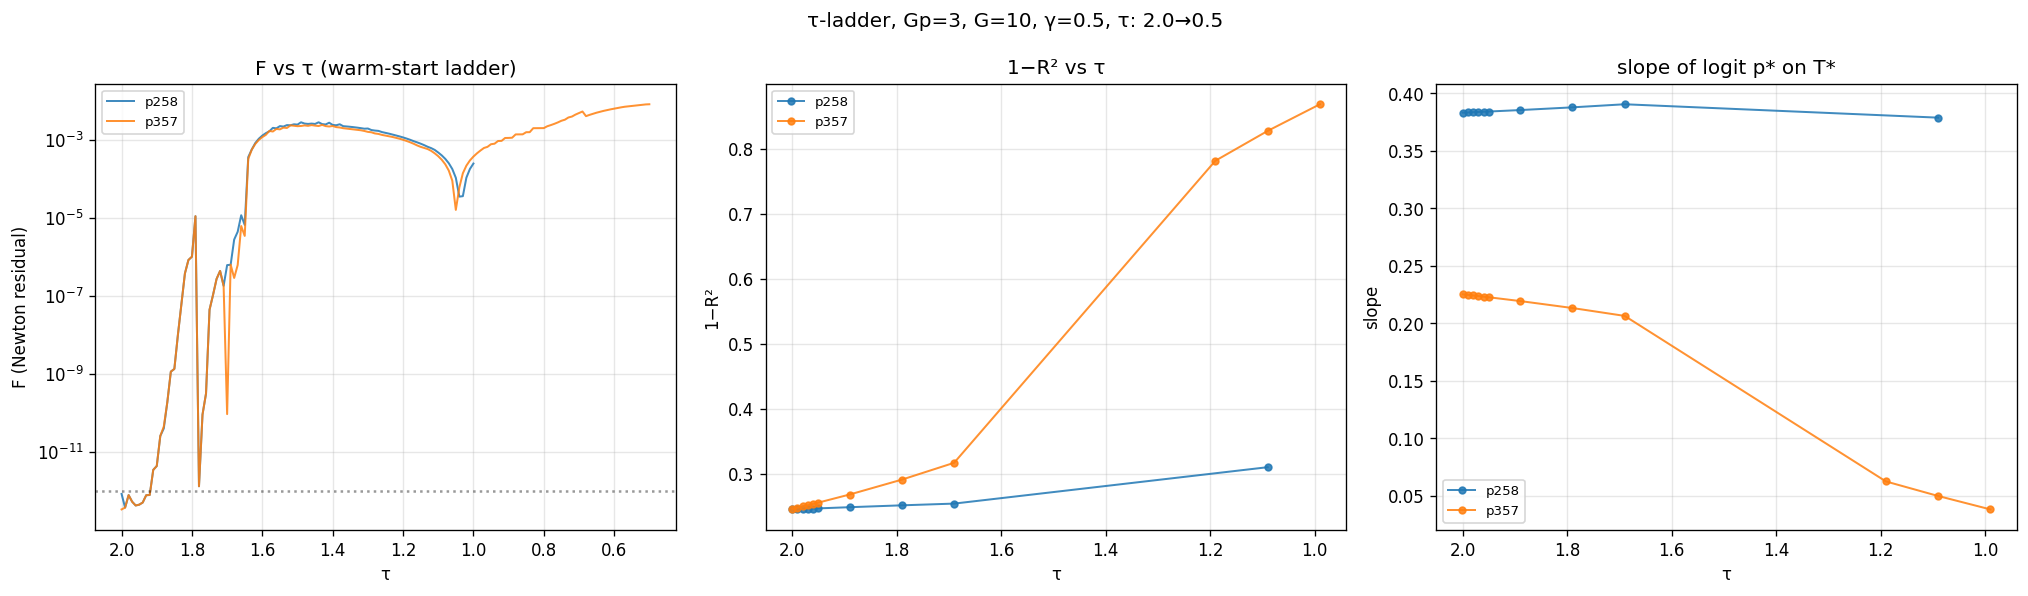
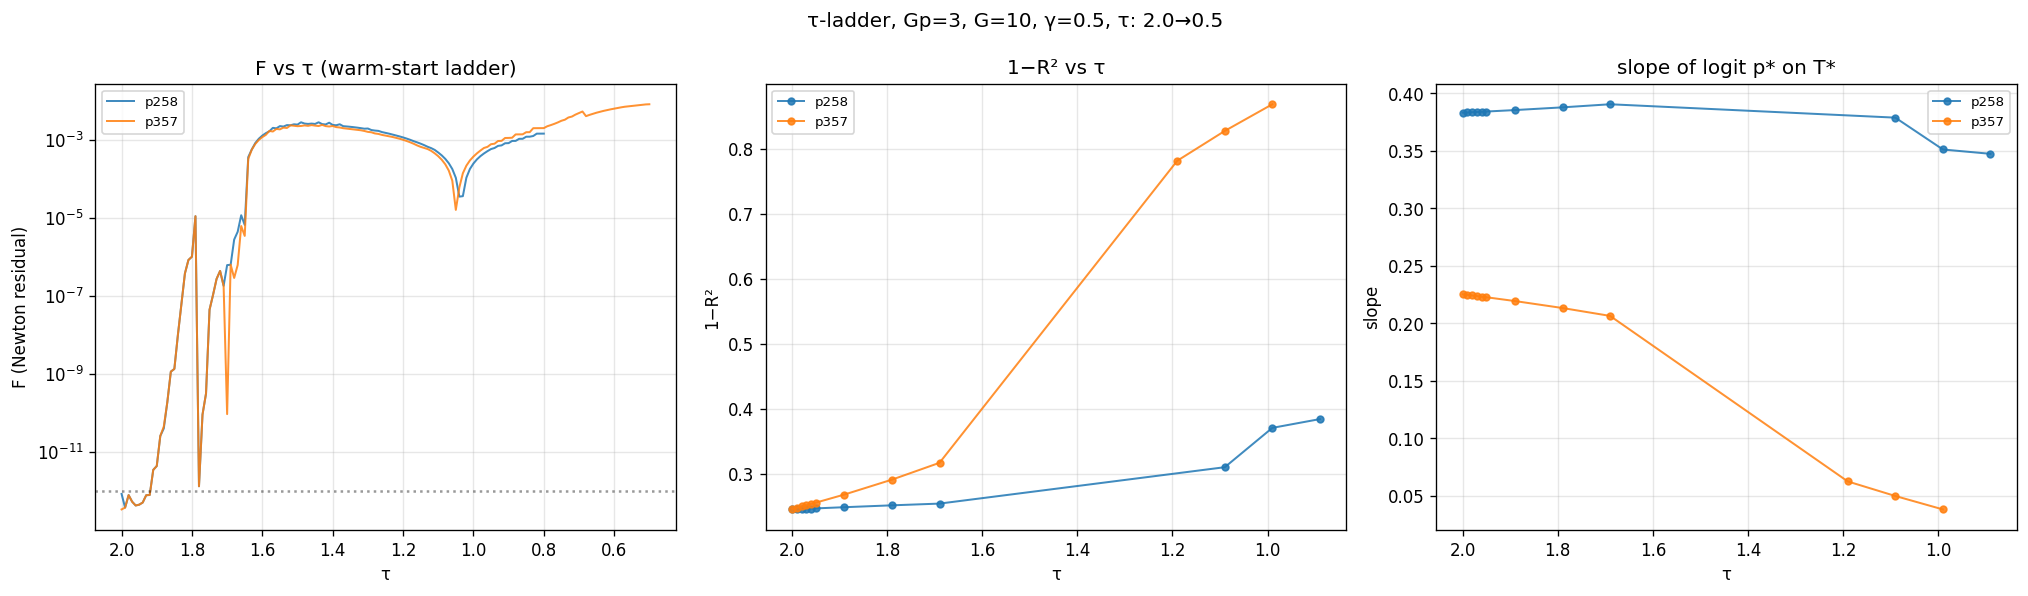
τ-ladder p258: τ→0.80

diff --git a/projects/REZN/checkpoints/tau_ladder/summary.md b/projects/REZN/checkpoints/tau_ladder/summary.md
@@ -101,3 +101,23 @@
 | p258 | 1.02 | 1.05e-04 | 3 | nan | nan | 1.5s |
 | p258 | 1.01 | 1.76e-04 | 3 | nan | nan | 1.4s |
 | p258 | 1.00 | 2.43e-04 | 3 | nan | nan | 1.4s |
+| p258 | 0.99 | 3.10e-04 | 3 | 0.3705 | 0.351 | 1.6s |
+| p258 | 0.98 | 3.76e-04 | 2 | nan | nan | 1.3s |
+| p258 | 0.97 | 4.40e-04 | 2 | nan | nan | 1.3s |
+| p258 | 0.96 | 5.04e-04 | 2 | nan | nan | 1.3s |
+| p258 | 0.95 | 5.70e-04 | 2 | nan | nan | 1.3s |
+| p258 | 0.94 | 6.07e-04 | 2 | nan | nan | 1.6s |
+| p258 | 0.93 | 6.88e-04 | 2 | nan | nan | 1.3s |
+| p258 | 0.92 | 7.08e-04 | 1 | nan | nan | 1.1s |
+| p258 | 0.91 | 8.03e-04 | 2 | nan | nan | 1.3s |
+| p258 | 0.90 | 8.09e-04 | 1 | nan | nan | 1.1s |
+| p258 | 0.89 | 9.19e-04 | 2 | 0.3840 | 0.347 | 1.2s |
+| p258 | 0.88 | 9.22e-04 | 1 | nan | nan | 1.0s |
+| p258 | 0.87 | 1.04e-03 | 2 | nan | nan | 1.2s |
+| p258 | 0.86 | 1.04e-03 | 1 | nan | nan | 1.1s |
+| p258 | 0.85 | 1.18e-03 | 2 | nan | nan | 1.2s |
+| p258 | 0.84 | 1.18e-03 | 1 | nan | nan | 1.0s |
+| p258 | 0.83 | 1.23e-03 | 2 | nan | nan | 1.5s |
+| p258 | 0.82 | 1.41e-03 | 2 | nan | nan | 1.2s |
+| p258 | 0.81 | 1.42e-03 | 1 | nan | nan | 1.1s |
+| p258 | 0.80 | 1.42e-03 | 1 | nan | nan | 1.1s |